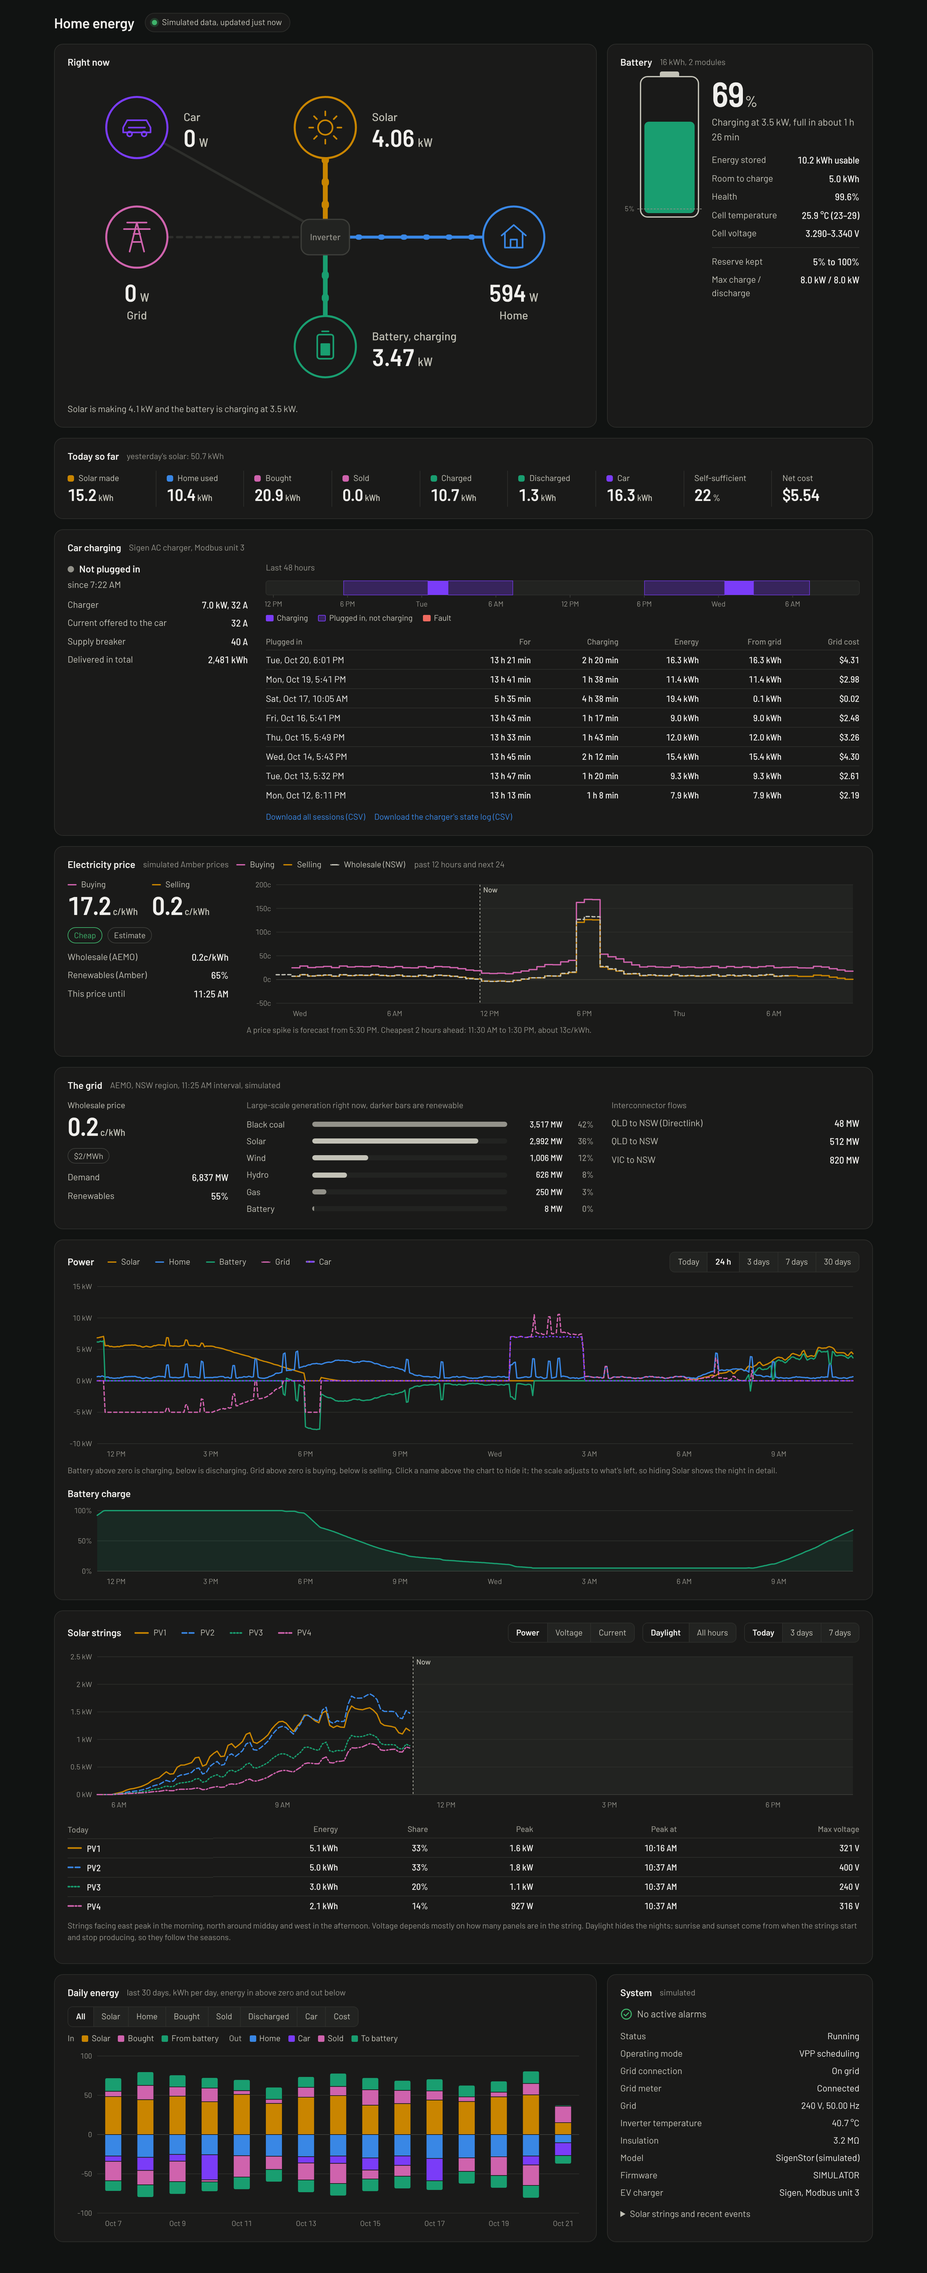
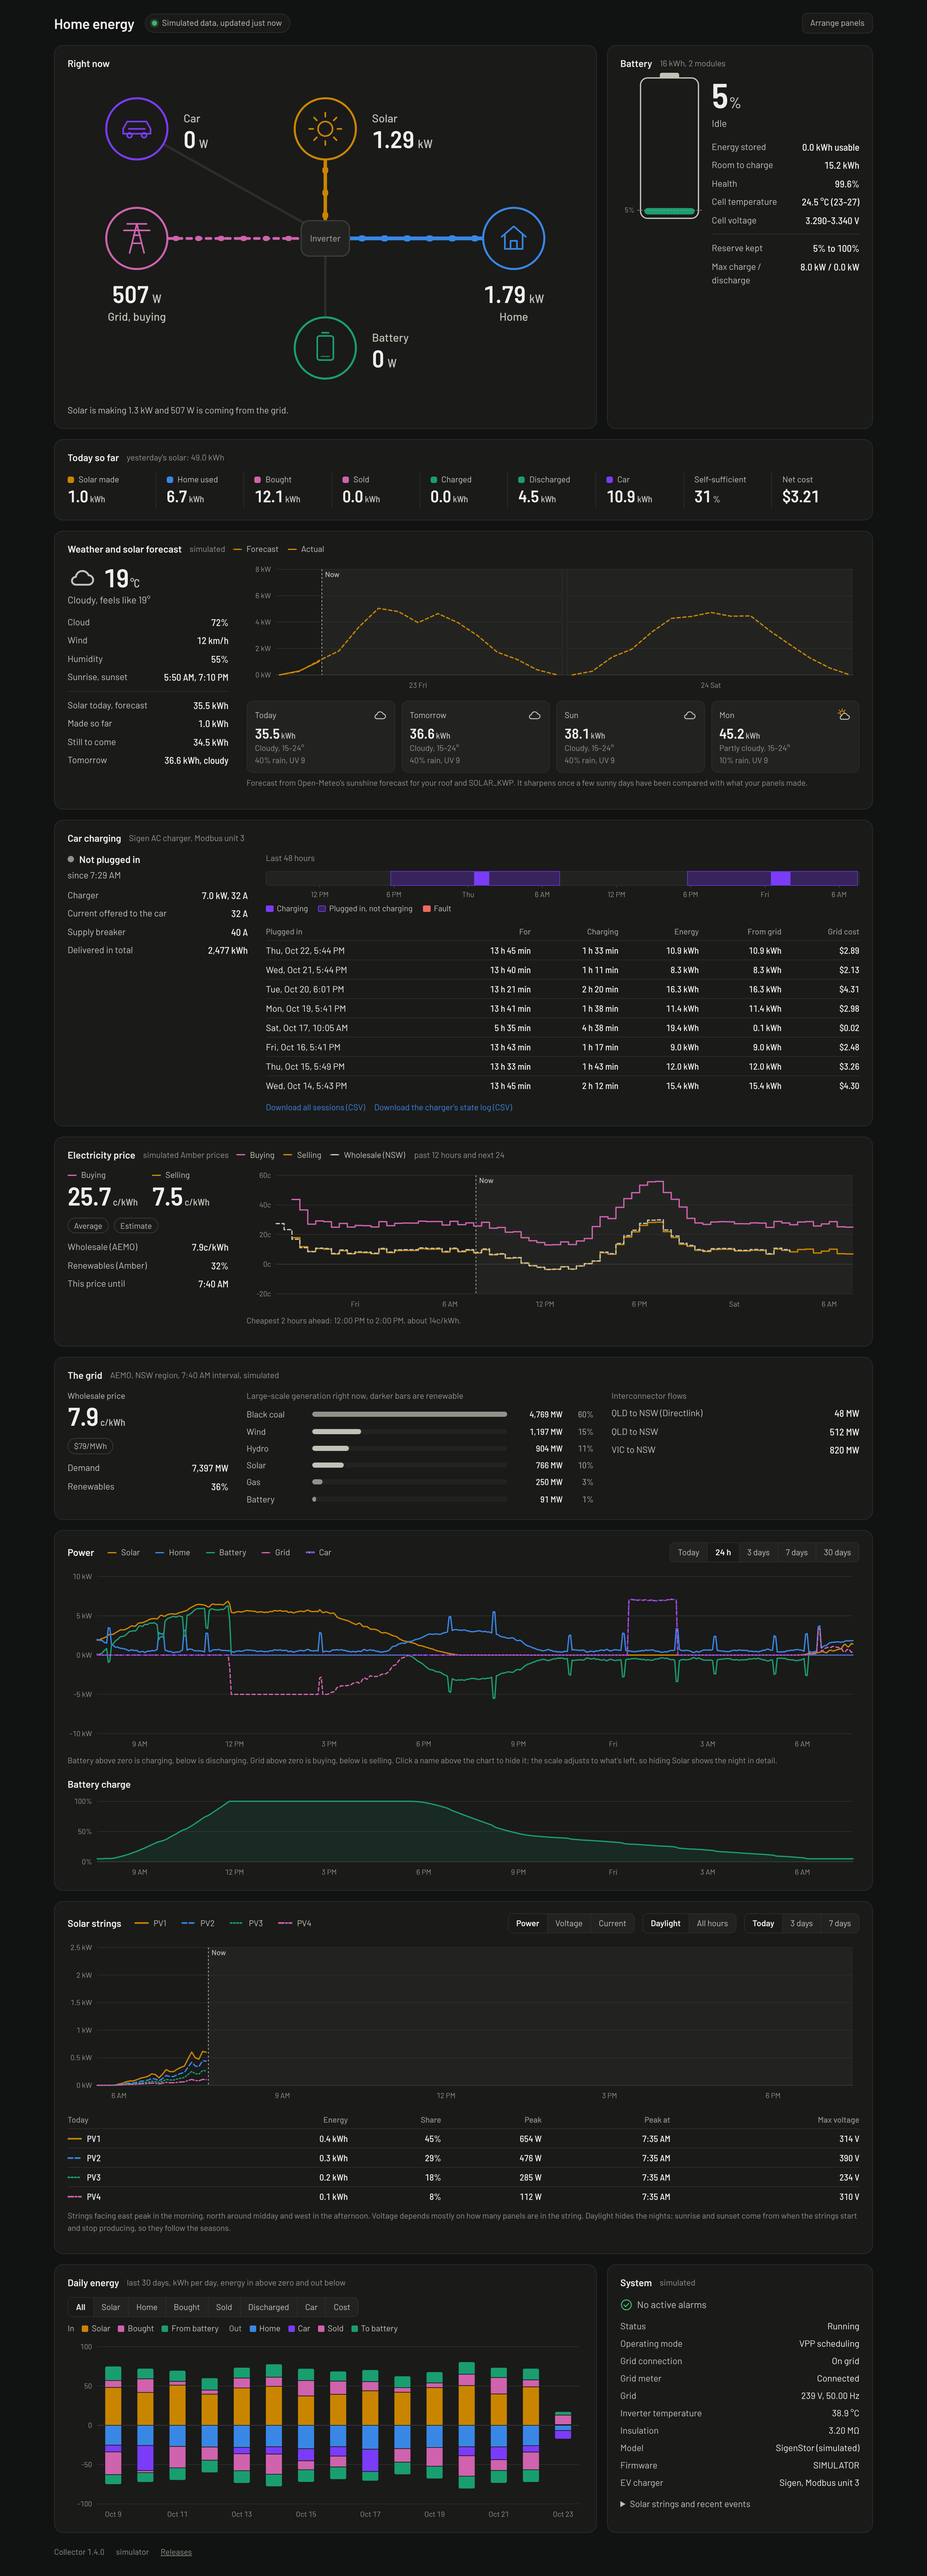
README: weather and solar forecast, arrange panels, insulation check, settings
Updates the intro, diagram and feature list for the newer features, adds
weather and arrange-panels screenshots (and refreshes the others), a System
health section covering alarms and the insulation check, a full Settings
table, and troubleshooting for weather, the charger and versions.

Claude-Session: https://claude.ai/code/session_015nhbUDYGJqnTyF2hbuQFnR

diff --git a/README.md b/README.md
@@ -9,8 +9,9 @@ A local dashboard and desktop widget for a SigenStor system that reads the inver
 directly over **Modbus TCP**, so it keeps working when Sigenergy's cloud is down.
 Live retailer prices from **Amber Electric** or **LocalVolts** add buy/sell prices, spike
 warnings, forecasts and what your power is costing, and free **AEMO** market data shows
-the wholesale price, demand and generation mix for your region. If you have a **Sigen AC
-charger**, it shows the car charging too, with a log of every session.
+the wholesale price, demand and generation mix for your region. Free **Open-Meteo** weather
+gives a local forecast and a **solar production forecast** that learns from your own panels.
+If you have a **Sigen AC charger**, it shows the car charging too, with a log of every session.
 
 <picture>
   <source media="(prefers-color-scheme: dark)" srcset="docs/screenshots/power-flow-dark.png">
@@ -20,18 +21,26 @@ charger**, it shows the car charging too, with a log of every session.
 ```
                                           ┌── Amber or LocalVolts API (optional)
 SigenStor ──Modbus TCP (read-only)──▶ Collector (Docker / Pi / NAS) ◀── AEMO market data
-                                         │  SQLite history, web dashboard, JSON API
+  (inverter, battery, AC charger)        │  SQLite history,      ◀── Open-Meteo weather (optional)
+                                         │  web dashboard, JSON API
                      ┌───────────────────┼─────────────────────┐
               Browser dashboard   Windows widget app      Mac widget app
 ```
 
 * **Collector** (`collector/`): Python standard library only, no packages to install.
   Polls every 5 s, keeps minute history for ~2 years, serves the dashboard on port 8080.
-* **Dashboard** (`web/`): live power flow, battery detail, today's totals and cost,
-  power and battery history, daily energy and cost, retailer and wholesale prices
-  with forecasts, the grid's generation mix, solar strings, car charging, system status and
-  alarms. Light and dark mode, works on a phone.
-  **Arrange panels** (top right) hides panels you don't use and changes their order and width.
+* **Dashboard** (`web/`), in panels you can show, hide, reorder and resize:
+  * live power flow between solar, battery, home, grid and car, with battery detail
+  * today's totals, self-sufficiency and cost
+  * weather, four-day forecast and a solar forecast in kWh
+  * car charging from a Sigen AC charger: state, sessions, energy and cost
+  * retailer and wholesale prices with forecasts, and the grid's generation mix
+  * power and battery history, with a Today view
+  * solar strings, sunrise to sunset, for spotting shading or a faulty string
+  * daily energy and cost for the last 30 days
+  * system status, decoded alarms, insulation resistance check and an event log
+
+  Light and dark mode, works on a phone, and shows the version you're running at the bottom.
 * **Desktop app** (`desktop/`): one app for Windows and macOS. A small always-on-top
   widget plus the full dashboard window, living in the tray / menu bar, with
   "Start at login".
@@ -60,7 +69,12 @@ Then point it at your inverter and add your retailer, either with `-e` settings 
 SIGEN_SIMULATE=0
 SIGEN_HOST=192.168.1.60      # your inverter's IP address (Modbus TCP must be enabled)
 AMBER_API_KEY=...            # or LOCALVOLTS_API_KEY and LOCALVOLTS_PARTNER_ID
+SITE_LAT=-33.87              # optional: for weather and the solar forecast
+SITE_LON=151.21
+SOLAR_KWP=10                 # optional: your array size in kW
 ```
+
+Every setting is listed under [Settings](#settings).
 
 Restart the container after changing `sigen.env`. Desktop apps for Windows and Mac are on
 the [releases page](https://github.com/copperOstrich/sigen-dashboard/releases/latest).
@@ -88,7 +102,15 @@ AEMO's wholesale price, and the region's generation mix.
   <img alt="Electricity price chart with Amber buy and sell prices and AEMO wholesale price, and the grid generation mix" src="docs/screenshots/prices-grid-light.png">
 </picture>
 
-**History**: power flows and battery charge over 24 hours to 30 days, with a crosshair to
+**Weather and solar forecast**: current conditions, four days ahead, and a solar forecast
+in kWh, with today's forecast hour by hour against what the panels actually made.
+
+<picture>
+  <source media="(prefers-color-scheme: dark)" srcset="docs/screenshots/weather-dark.png">
+  <img alt="Weather panel: current conditions, today's solar forecast and what's still to come, an hourly forecast-versus-actual chart for today and tomorrow, and four daily forecast cards" src="docs/screenshots/weather-light.png">
+</picture>
+
+**History**: power flows and battery charge from today to 30 days, with a crosshair to
 read any moment.
 
 <picture>
@@ -98,8 +120,8 @@ read any moment.
 
 **Solar strings**: power, voltage and current for each PV string your inverter reports,
 sunrise to sunset with the nights folded away, plus each string's energy, share and peak
-for the day. Handy for spotting shading or a
-faulty panel, and for telling which roof face is on which string.
+for the day. Handy for spotting shading or a faulty panel, and for telling which roof face is
+on which string.
 
 <picture>
   <source media="(prefers-color-scheme: dark)" srcset="docs/screenshots/strings-dark.png">
@@ -120,6 +142,13 @@ out (home, sold, to battery), plus inverter status and alarms.
 <picture>
   <source media="(prefers-color-scheme: dark)" srcset="docs/screenshots/daily-system-dark.png">
   <img alt="Daily energy balance chart and system status panel" src="docs/screenshots/daily-system-light.png">
+</picture>
+
+**Arrange panels**: hide what you don't use, and change the order and width of the rest.
+
+<picture>
+  <source media="(prefers-color-scheme: dark)" srcset="docs/screenshots/arrange-dark.png">
+  <img alt="Arrange panels window listing each panel with a show checkbox, a width choice and up and down buttons" src="docs/screenshots/arrange-light.png" width="480">
 </picture>
 
 **Desktop widget and phone**: the always-on-top widget for Windows and Mac, and the
@@ -315,6 +344,13 @@ panels actually made over the last two weeks, so after a few sunny days it refle
 system's losses, shading and clipping. If you give an address, it's sent once to
 OpenStreetMap's Nominatim to find the coordinates; nothing else about your system leaves home.
 
+For the best forecast, describe each roof face in `SOLAR_PLANES` as `tilt:azimuth:kW`,
+comma separated: tilt is the roof pitch in degrees, azimuth is the compass direction the
+panels face (0 north, 90 east, 180 south, 270 west) and kW is that face's panels. East and
+west faces then get their morning and afternoon peaks at the right times. Without it, the
+whole array is treated as one north-facing roof at 20°. The weather panel can be hidden with
+**Arrange panels**, or turned off with `WEATHER_ENABLED=0`.
+
 ## 5. Desktop widget app (Windows and Mac)
 
 Download the installer from the
@@ -344,6 +380,63 @@ workflow** builds them as run artifacts; pushing a tag like `v1.2.1` publishes a
 with notes from that version's section of [CHANGELOG.md](CHANGELOG.md). To build locally,
 install Rust and Node, then `cd desktop && npm install && npm run build`.
 
+## System health and alarms
+
+The System panel shows the inverter's status, operating mode, grid, temperatures and
+firmware, and decodes the alarm registers in Sigenergy's Modbus protocol into plain
+messages. New alarms, and alarms clearing, go into the event log.
+
+It also watches the **insulation resistance** of the solar wiring to earth, which Sigenergy
+uses to detect damaged cables or water in a connector. Healthy systems usually read about
+0.5 to 0.8 MΩ, and the inverter protects itself (stopping solar) below about 0.37 MΩ:
+
+| Reading | Shown as |
+|---|---|
+| 0.5 MΩ or more | normal |
+| below 0.5 MΩ | amber "lower than usual" notice and an event |
+| below 0.37 MΩ | red alarm and an event |
+
+It takes three readings in a row to change level, so one damp-morning reading doesn't set it
+off. Change the limits with `INSULATION_WARN_MOHM` and `INSULATION_MIN_MOHM`. A reading that
+stays low is worth having your installer check.
+
+## Settings
+
+Set these as environment variables, or in `sigen.env` in the data folder (read on every
+start; restart the container after editing).
+
+| Setting | What it does | Default |
+|---|---|---|
+| **Inverter** | | |
+| `SIGEN_HOST` | Inverter's IP address | required, unless simulating |
+| `SIGEN_PORT` | Modbus TCP port | `502` |
+| `SIGEN_PLANT_UNIT` / `SIGEN_INVERTER_UNIT` | Modbus unit ids (inverter `0` skips battery cell and string detail) | `247` / `1` |
+| `SIGEN_CHARGER_UNIT` | AC charger: `auto` searches, a number reads that unit, `plant` uses the inverter's figures, `0` none | `auto` |
+| `POLL_SECONDS` | How often to read the inverter (2 s minimum) | `5` |
+| `SIGEN_SIMULATE` | `1` runs the built-in simulator instead | `0` |
+| **Prices** | | |
+| `AMBER_API_KEY`, `AMBER_SITE_ID` | Amber Electric | off |
+| `LOCALVOLTS_API_KEY`, `LOCALVOLTS_PARTNER_ID`, `LOCALVOLTS_NMI` | LocalVolts | off |
+| `PRICE_PROVIDER` | `amber`, `localvolts` or `none` if both are set | whichever has a key |
+| `AEMO_REGION`, `AEMO_ENABLED` | AEMO region (`NSW1`, `QLD1`, `VIC1`, `SA1`, `TAS1`), or `0` to turn off | `NSW1`, on |
+| **Weather and solar forecast** | | |
+| `SITE_LAT`, `SITE_LON` | Where the panels are | off |
+| `SITE_ADDRESS` | Or an address or suburb to look up once | off |
+| `SOLAR_KWP` | Array size in kW, for a first estimate | none |
+| `SOLAR_PLANES` | Roof faces as `tilt:azimuth:kW`, comma separated | one north face at 20° |
+| `WEATHER_ENABLED` | `0` to turn weather off | on |
+| **Checks** | | |
+| `INSULATION_WARN_MOHM` / `INSULATION_MIN_MOHM` | Insulation resistance warning and alarm levels, MΩ | `0.5` / `0.37` |
+| **Collector** | | |
+| `HTTP_PORT` | Dashboard and API port | `8080` |
+| `DATA_DIR` | Where the database and `sigen.env` live | `/data` in Docker |
+| `TZ` | Time zone for "today" | `Australia/Sydney` |
+| `RETENTION_DAYS` | Days of minute history to keep | `800` |
+
+Simulator only: `SIM_PV_KWP`, `SIM_BATTERY_KWH`, `SIM_INVERTER_KW`, `SIM_EXPORT_LIMIT_KW`,
+`SIM_PV_STRINGS`, `SIM_EV_CHARGER`, `SIM_CHARGER_MODBUS`, `SIM_INSULATION_MOHM`, `SIM_ALARMS`,
+`DEMO_HISTORY_DAYS`.
+
 ## API
 
 | Endpoint | What it returns |
@@ -359,7 +452,8 @@ install Rust and Node, then `cd desktop && npm install && npm run build`.
 | `GET /api/ev-sessions?days=30&format=csv` | Charging sessions (CSV download or JSON) |
 | `GET /api/ev-log?days=30&format=csv` | Every charger state change with power and offered current (CSV or JSON) |
 | `GET /api/weather` | Current weather, hourly and daily forecast, and the solar forecast in kWh |
-| `GET /api/health` | `{ok, status, updated}` for monitoring |
+| `GET /api/health` | `{ok, status, updated, version}` for monitoring |
+| `GET /api/debug` | Raw register values, unsupported registers and the charger search, for troubleshooting |
 
 Signs: `grid` positive = buying, negative = selling. `battery` positive = charging.
 
@@ -378,7 +472,13 @@ Signs: `grid` positive = buying, negative = selling. `battery` positive = chargi
   are treated as unsupported filler values and ignored (they're listed in the log).
 * **AC charger not found**: the `charger` section of `/api/debug` lists which unit ids
   answered during the search. If your installer knows the charger's id, set
-  `SIGEN_CHARGER_UNIT` to it.
+  `SIGEN_CHARGER_UNIT` to it. If the charger has no Modbus address, set
+  `SIGEN_CHARGER_UNIT=plant` to show charging from the inverter's figures instead.
+* **No weather panel**: set `SITE_LAT` and `SITE_LON` (or `SITE_ADDRESS`); problems show in
+  the collector log on lines starting `Weather:`.
+* **Solar forecast way off**: it calibrates over a few sunny days; set `SOLAR_KWP` and
+  `SOLAR_PLANES` for a better start.
+* **Which version am I running?** It's at the bottom of the dashboard, and in `/api/health`.
 * **Widget says "Can't reach collector"**: click its status text to open the dashboard and
   fix the address. The collector must be reachable from that computer on port 8080.
 
